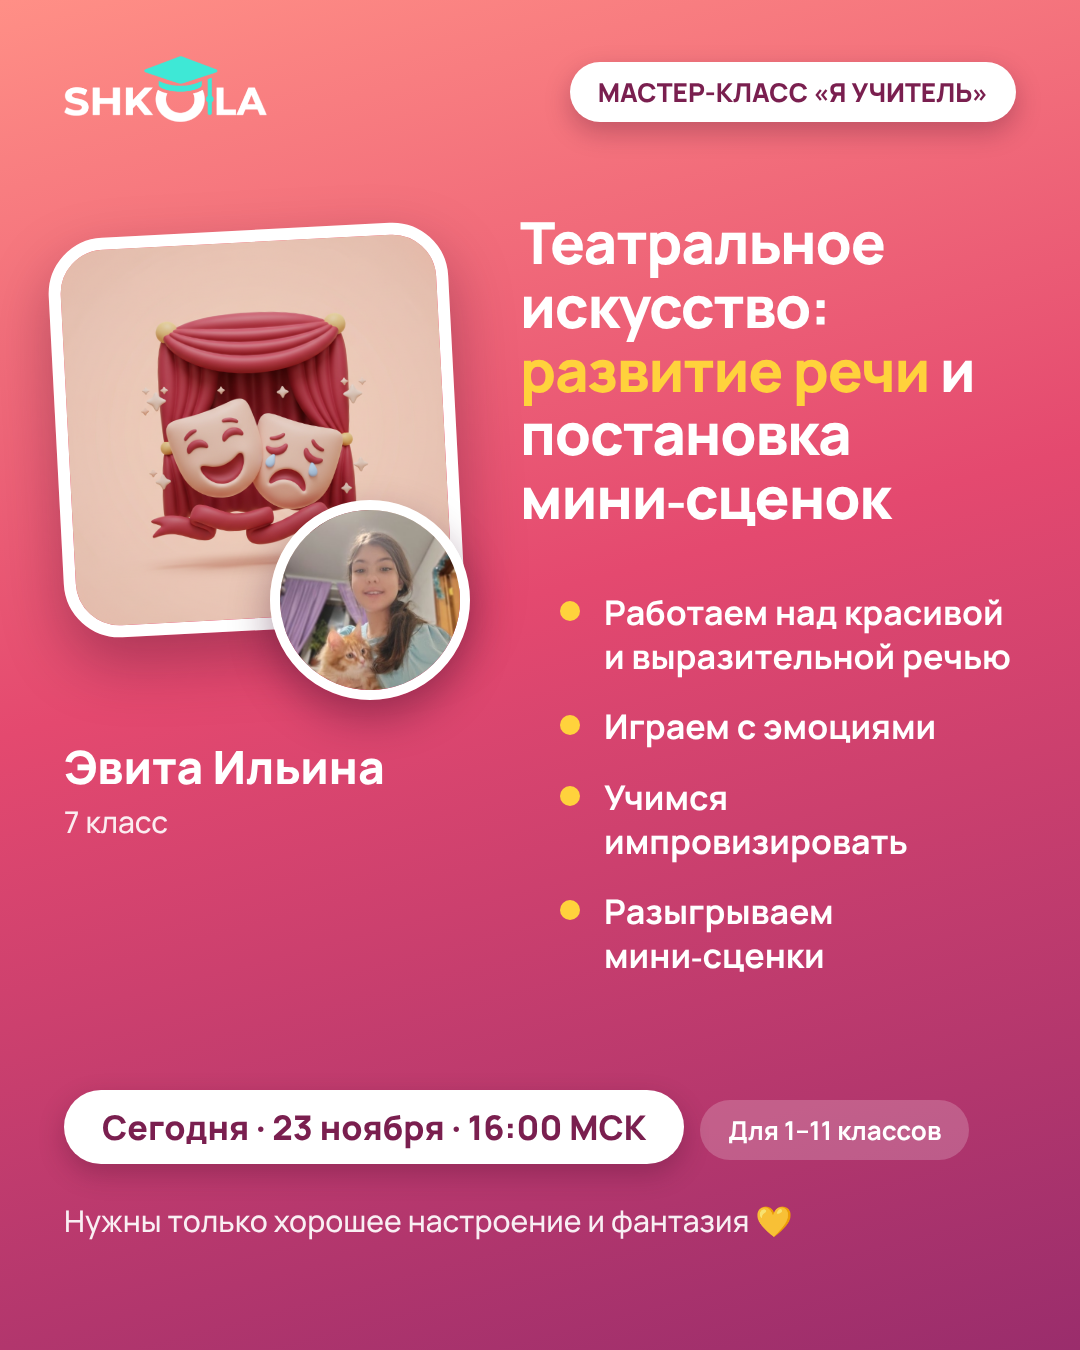
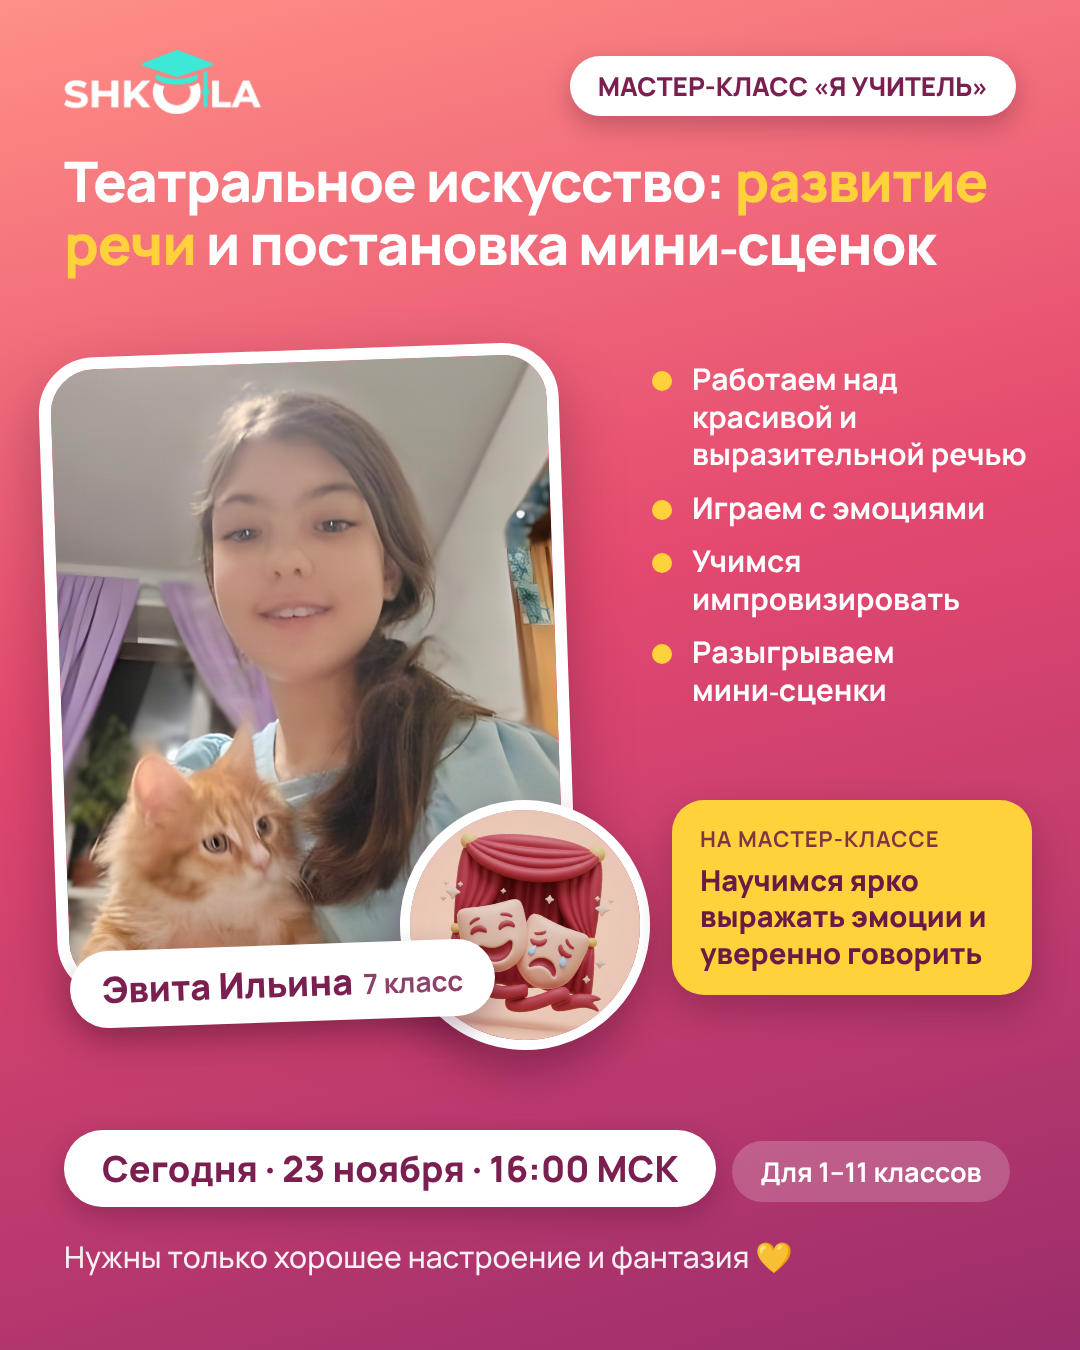
Evita post: big photo, bullets, goal card
Claude-Session: https://claude.ai/code/session_01EUhV7x1P3xabAX3GuSkHDE

diff --git a/masterclass-carousel/evita/src/gen_post.js b/masterclass-carousel/evita/src/gen_post.js
@@ -1,0 +1,55 @@
+const {chromium}=require('playwright');const fs=require('fs');
+const F='/tmp/claude-0/-home-user-TEST1/513f869e-9292-59bf-9428-803d9243f8db/scratchpad/build/node_modules/@fontsource/manrope/';
+const css=['cyrillic-500','cyrillic-700','cyrillic-800','latin-500','latin-700','latin-800'].map(s=>`@import url("${F}${s}.css");`).join('');
+const base=`${css}*{margin:0;box-sizing:border-box}
+body{font-family:Manrope,'Noto Color Emoji';position:relative;overflow:hidden;background:linear-gradient(165deg,#ff8f86 0%,#e4496f 45%,#9a2d6c 100%);color:#fff}
+.card{position:absolute;border-radius:56px;border:12px solid #fff;overflow:hidden;box-shadow:0 26px 60px rgba(60,10,40,.35)}
+.card img{width:100%;height:100%;object-fit:cover}
+.av{position:absolute;border-radius:50%;border:10px solid #fff;overflow:hidden;box-shadow:0 18px 40px rgba(60,10,40,.4)}
+.av img{width:100%;height:100%;object-fit:cover;object-position:55% 35%}
+.pillw{display:inline-block;background:#fff;color:#7a1f4f;font:800 33px Manrope;padding:14px 38px;border-radius:60px;box-shadow:0 10px 26px rgba(60,10,40,.28);white-space:nowrap}
+.hl{color:#ffd23c}
+.chip{display:inline-block;background:rgba(255,255,255,.2);color:#fff;font:700 28px Manrope,'Noto Color Emoji';padding:12px 28px;border-radius:40px}`;
+const story=`<!doctype html><meta charset=utf-8><style>${base}body{width:1080px;height:1920px}
+.logo{position:absolute;top:96px;left:0;right:0;text-align:center}.logo img{height:86px}
+.pillr{position:absolute;top:226px;left:0;right:0;text-align:center}
+h1{position:absolute;top:330px;left:0;right:0;text-align:center;font:800 124px/1.03 Manrope;letter-spacing:-3px;text-shadow:0 4px 30px rgba(60,10,40,.3)}
+h1 span{display:block;color:#ffd23c}
+.sub{position:absolute;left:70px;right:70px;top:1200px;text-align:center;font:800 50px/1.2 Manrope}
+.who{position:absolute;left:0;right:0;top:1342px;text-align:center;font:500 36px Manrope;opacity:.95}.who b{font-weight:800}
+.row{position:absolute;left:0;right:0;text-align:center}</style>
+<div class=logo><img src="logo_teal.png"></div>
+<div class=pillr><span class=pillw>● СЕГОДНЯ · «Я УЧИТЕЛЬ»</span></div>
+<h1>Театральное<span>искусство!</span></h1>
+<div class=card style="left:290px;top:640px;width:500px;height:500px;transform:rotate(-3deg)"><img src="masks.png"></div>
+<div class=av style="left:650px;top:930px;width:250px;height:250px"><img src="photo.jpg"></div>
+<div class=sub>Развитие речи и постановка мини‑сценок</div>
+<div class=who>Ведущая — <b>Эвита Ильина</b>, 7 класс</div>
+<div class=row style="top:1430px"><span class=pillw style="background:#fff;color:#7a1f4f">Сегодня · 23 ноября · 16:00 МСК</span></div>
+<div class=row style="top:1522px"><span class=chip>🎭 Для 1–11 классов · нужны только настроение и фантазия</span></div>`;
+const post=`<!doctype html><meta charset=utf-8><style>${base}body{width:1080px;height:1350px}
+.logo{position:absolute;top:50px;left:64px}.logo img{height:64px}
+.pr{position:absolute;top:56px;right:64px}.pr .pillw{font-size:26px;padding:12px 28px}
+h1{position:absolute;left:64px;right:64px;top:150px;font:800 56px/1.12 Manrope;letter-spacing:-1.2px}
+.card{left:48px;top:350px;width:520px;height:640px;transform:rotate(-2deg)}
+.card img{object-position:50% 22%}
+.sticker{position:absolute;left:400px;top:800px;width:250px;height:250px;border-radius:50%;border:10px solid #fff;overflow:hidden;transform:rotate(6deg);box-shadow:0 20px 44px rgba(60,10,40,.4)}
+.sticker img{width:100%;height:100%;object-fit:cover;transform:scale(1.25)}
+.name{position:absolute;left:70px;top:945px;background:#fff;color:#7a1f4f;border-radius:44px;padding:14px 32px;font:800 36px Manrope;box-shadow:0 12px 28px rgba(60,10,40,.3);transform:rotate(-2deg)}.name small{font:600 28px Manrope;opacity:.85;margin-left:10px}
+ul{position:absolute;left:612px;right:50px;top:360px;list-style:none;font:600 30px/1.25 Manrope}
+li{position:relative;padding-left:40px;margin-bottom:16px}li:before{content:'';position:absolute;left:0;top:11px;width:20px;height:20px;border-radius:50%;background:#ffd23c}
+.goal{position:absolute;left:672px;right:48px;top:800px;background:#ffd23c;color:#6b1a45;border-radius:32px;padding:24px 28px;font:800 29px/1.25 Manrope;box-shadow:0 16px 36px rgba(60,10,40,.3)}
+.goal small{display:block;font:700 22px Manrope;letter-spacing:1px;margin-bottom:8px;opacity:.85}
+.bot{position:absolute;left:64px;right:64px;top:1130px}.bot .pillw{font-size:36px}.bot .chip{margin-left:16px;font-size:27px}
+.note{position:absolute;left:64px;right:64px;top:1236px;font:500 30px Manrope;opacity:.92}</style>
+<div class=logo><img src="logo_teal.png"></div><div class=pr><span class=pillw>МАСТЕР-КЛАСС «Я УЧИТЕЛЬ»</span></div>
+<h1>Театральное искусство: <span class=hl>развитие речи</span> и&nbsp;постановка мини‑сценок</h1>
+<div class=card><img src="photo_big.jpg"></div><div class=sticker><img src="masks.png"></div>
+<div class=name>Эвита Ильина<small>7 класс</small></div>
+<ul><li>Работаем над красивой и выразительной речью</li><li>Играем с эмоциями</li><li>Учимся импровизировать</li><li>Разыгрываем мини‑сценки</li></ul>
+<div class=goal><small>НА МАСТЕР-КЛАССЕ</small>Научимся ярко выражать эмоции и уверенно говорить</div>
+<div class=bot><span class=pillw>Сегодня · 23 ноября · 16:00 МСК</span><span class=chip>Для 1–11 классов</span></div>
+<div class=note>Нужны только хорошее настроение и фантазия 💛</div>`;
+(async()=>{const b=await chromium.launch();
+for(const [n,h,w,hh] of [['post2',post,1080,1350]]){const pg=await b.newPage({viewport:{width:w,height:hh}});const p=process.cwd()+`/${n}.html`;fs.writeFileSync(p,h);await pg.goto('file://'+p);await pg.waitForTimeout(900);await pg.screenshot({path:`evita_${n}.png`});}
+await b.close();})();
